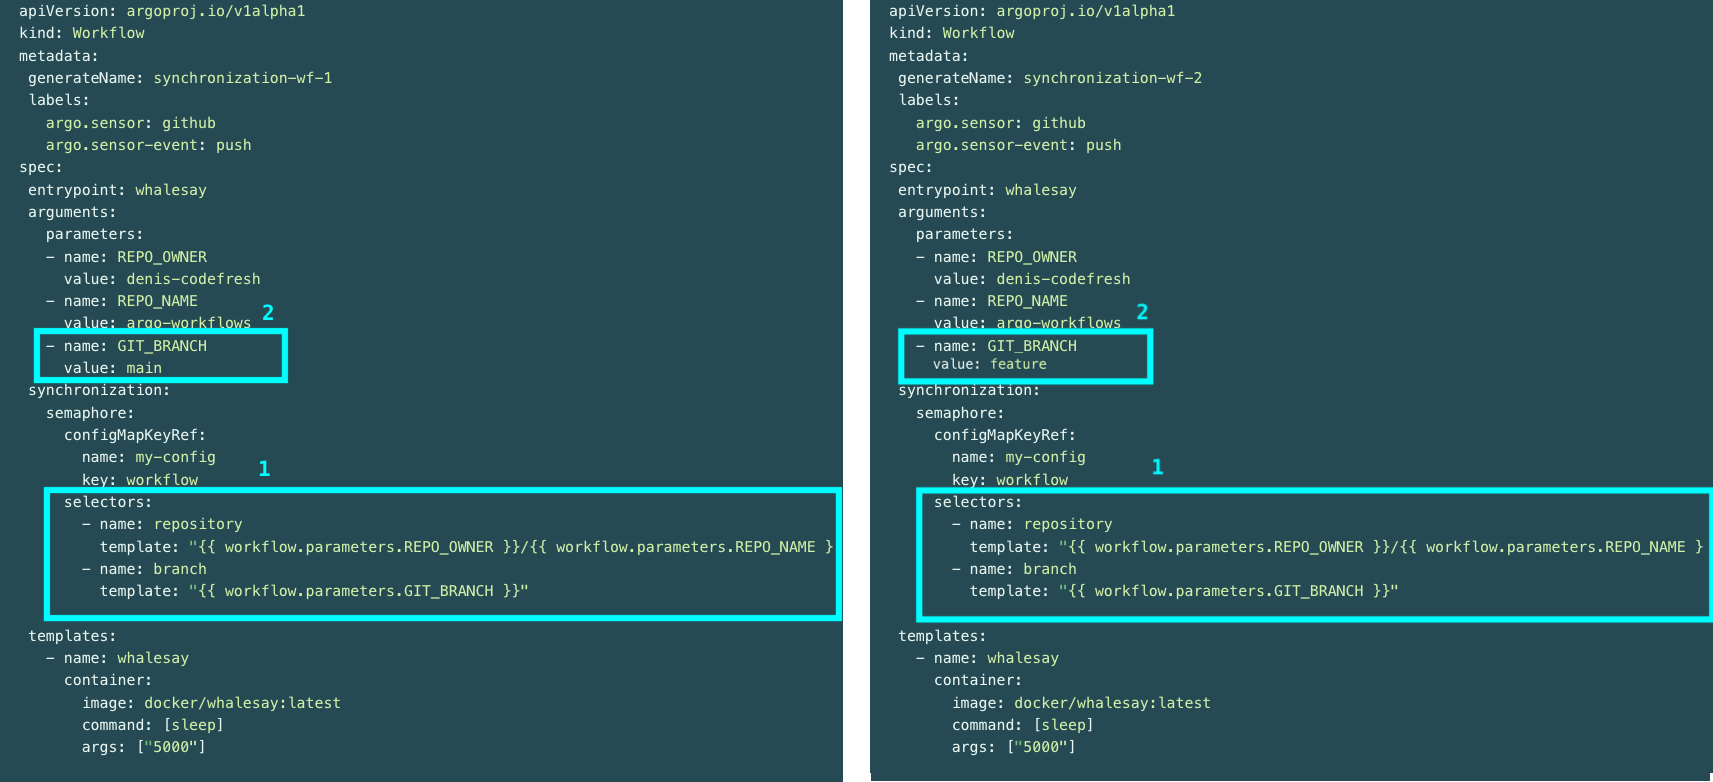
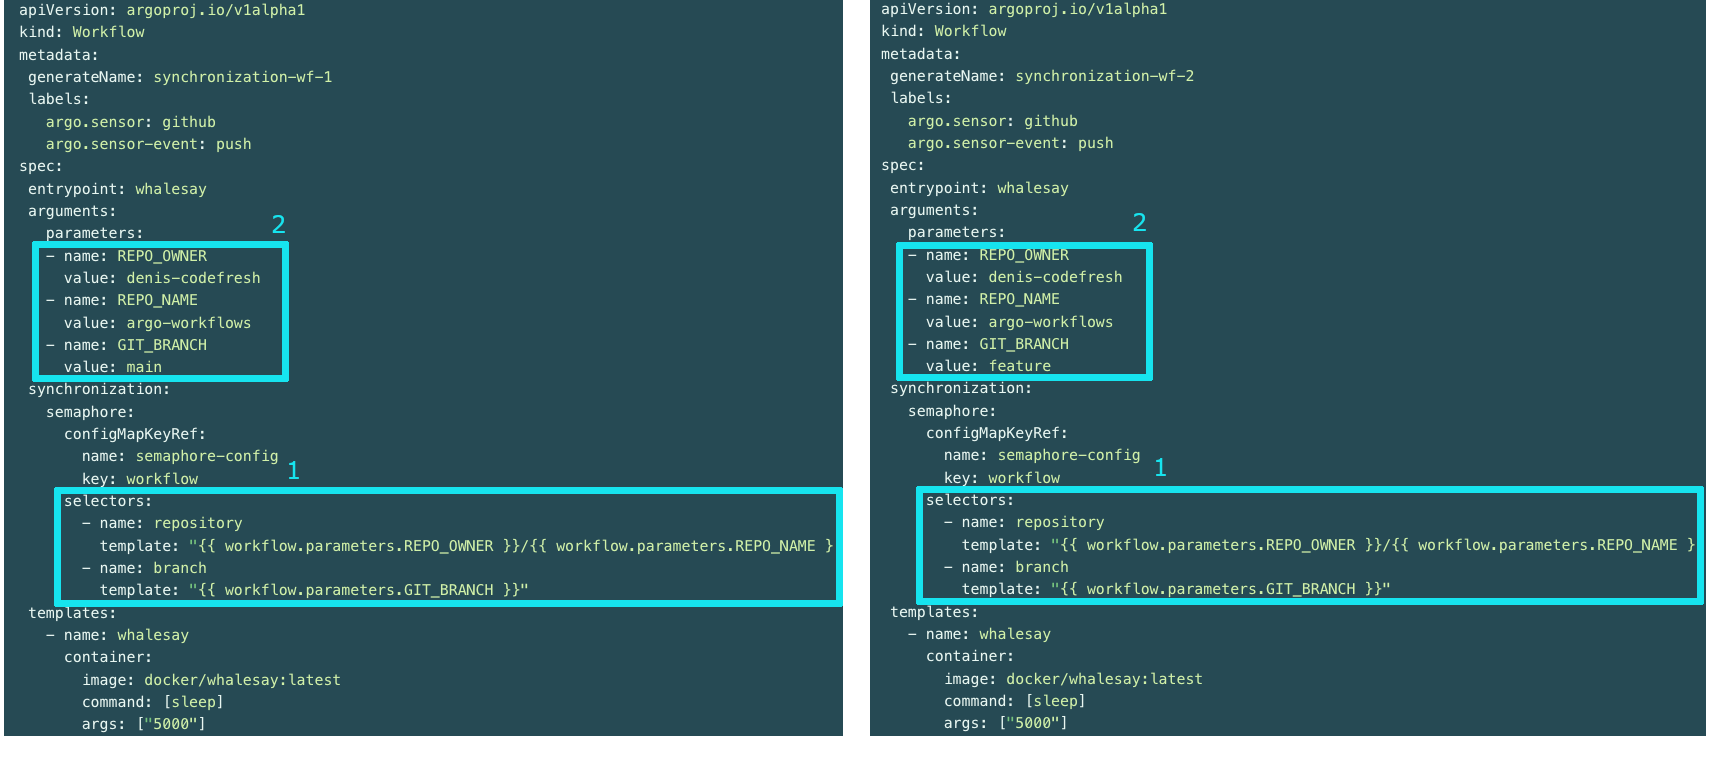
Updates after feedback
Implemented review comments from Ziv and Denis

Changed region(s): [[0.0, 0.0, 1.0, 1.0], [0.0928, 0.2148, 0.1238, 0.2455]]

diff --git a/_docs/pipelines/concurrency-limit.md b/_docs/pipelines/concurrency-limit.md
@@ -9,10 +9,11 @@ toc: true
 Argo Workflows has a synchronization mechanism to limit parallel execution of specific workflows or templates within workflows, as required.  
 The mechanism enforces this with either semaphore or mutex synchronization configurations.  
 
-CSDP supports an additional level of concurrency synchronization, with selectors, for both workflows and templates. 
-Selectors enable access to standard k8s objects such as `annotations`, `labels`, or `parameters` supporting dynamic values and templating. flexible concurrency configurations for parallel executions of workflows or templates within workflows. And equally important, selectors work with both semaphore and mutex synchronization configurations.  
+CSDP supports an additional level of concurrency synchronization, with _selectors_, for both workflows and templates.  
 
-The examples in this article are for semaphore synchronization configurations.  
+Selectors enable access to all workflow properties such as `annotations`, `labels`, or `parameters` using Go template formats. Selector-based concurrency configurations support parallel executions of workflows or templates within workflows. And equally important, selectors work with both semaphore and mutex synchronization configurations.  
+
+This article has examples for semaphore synchronization configurations.  
 
 Semaphore synchronization is configured in the `ConfigMap`, which is referenced from workflows or templates within workflows.  
 
@@ -21,7 +22,7 @@ Here's an example of the `ConfigMap` with the concurrency definition:
 apiVersion: v1
 kind: ConfigMap
 metadata:
- name: my-config
+ name: semaphore-config
 data:
  workflow: "1"
 ```
@@ -30,16 +31,16 @@ data:
 A concurrency synchronization selector is defined through a `name`-`template` pair in the Workflow Template:  
 
 * The `name` is any meaningful/logical name that describes the selector. For example, Git repo or branch.
-* The `template` is the parameter mapping for the name, that is resolved to the selector value when the pipeline is triggered. For example, `{{ workflow.parameters.REPO_OWNER }}/{{ workflow.parameters.REPO_NAME }}` or `{{ workflow.parameters.GIT_BRANCH }}`.  
+* The `template` is the parameter mapping for the name, that is resolved to the selector value when the pipeline is run. For example, `workflow.parameters.REPO_OWNER/workflow.parameters.REPO_NAME` or `workflow.parameters.GIT_BRANCH`.  
 
-You add selectors to the `synchromziation` section in the Workflow Template, under `selectors`, as in the sample YAML below.
+Selectors are added to the `synchronization` section in the Workflow Template, under `selectors`, as in the sample YAML below.
 
 {% highlight yaml %}
 {% raw %}
 apiVersion: argoproj.io/v1alpha1
 kind: Workflow
 metadata:
- generateName: synchronization-wf-1
+ generateName: synchronization-wf-2
  labels:
    argo.sensor: github
    argo.sensor-event: push
@@ -56,14 +57,13 @@ spec:
  synchronization:
    semaphore:
      configMapKeyRef:
-       name: my-config
-       key: workflow
+        name: semaphore-config
+        key: workflow
      selectors:
-       - name: repository
-         template: "{{ workflow.parameters.REPO_OWNER }}/{{ workflow.parameters.REPO_NAME }}"
-       - name: branch
-         template: "{{ workflow.parameters.GIT_BRANCH }}"
- 
+      - name: repository
+        template: "{{ workflow.parameters.REPO_OWNER }}/{{ workflow.parameters.REPO_NAME }}"
+      - name: branch
+        template: "{{ workflow.parameters.GIT_BRANCH }}"
  templates:
    - name: whalesay
      container:
@@ -73,22 +73,23 @@ spec:
 {% endraw %}
 {% endhighlight %}
 
+
 ### When and how does selector concurrency configuration work?
 
 Let's review different scenarios to illustrate when and how selector-based concurrency synchronization works:  
-* Default concurrency synchronization
-* Selector concurrency synchronization with identical values
-* Selector concurrency synchronization with value differentiation
+* Default concurrency synchronization without selectors
+* Selector concurrency synchronization resolving to the _same `template`_ values
+* Selector concurrency synchronization resolving to _different `template`_ values 
 
 We have two workflows, `synchronization-wf-1` and `synchronization-wf-2`. 
 
 #### Default concurrency synchronization
-Both workflows have the same default values for the arguments, and share the same semaphore configuration, and key with weight 1.   
+Both workflows have the same default values for the arguments, and share the same semaphore configuration and key with weight 1.   
 
 {% include image.html 
   lightbox="true" 
-  file="/images/pipeline/concurrency/default-concurrency-sync.png" 
-  url="/images/pipeline/concurrency/default-concurrency-sync.png"
+  file="/images/pipeline/concurrency/concurrency-default-config.png" 
+  url="/images/pipeline/concurrency/concurrency-default-config.png"
        alt="Workflows with default concurrency configuration"
        caption="Workflows with default concurrency configuration"
        max-width="30%"
@@ -96,10 +97,10 @@ Both workflows have the same default values for the arguments, and share the sam
 
 With the default concurrency configuration, only one workflow at a time can use the key. Meaning that while `synchronization-wf-1` is `Running`, `synchronization-wf-2` is in `Pending` status.
 
-#### Selector concurrency synchronization with identical values 
+#### Selector concurrency synchronization resolving to same template values
 
 Here are the same workflows, `synchronization-wf-1` and `synchronization-wf-2`, this time configured with _selector_ concurrency.  
-Both workflows share the same semaphore key with weight of 1.  
+Both workflows share the same semaphore key with a weight of 1.  
 Both workflows also _use the same set of selectors_. As you can see in the image below, the Git repo and the Git branch arguments have the same values in both.  
 
 {% include image.html 
@@ -111,8 +112,8 @@ Both workflows also _use the same set of selectors_. As you can see in the image
        max-width="30%"
        %}
 
-In this case, the selectors have no impact as both workflows use the same set of selectors.
-If you look at the workflow status, you can see the key:
+In this case, the selectors have no impact as the `selector templates` in both workflows resolve to the same values, resulting in the same semaphore key.
+If you look at the status of both workflows, you can see that they have the same semaphore key.
 
 ```yaml
 synchronization:
@@ -120,16 +121,17 @@ synchronization:
    holding:
    - holders:
      - synchronization-wf-6lf8b
-     semaphore: argo/ConfigMap/my-config/workflow?repository=denis-codefresh/argo-workflows&branch=main
+     semaphore: argo/ConfigMap/semaphore-config/workflow?repository=denis-codefresh/argo-workflows&branch=main
 ```
 
 
-#### Selector concurrency synchronization with value differentiation
+#### Selector concurrency synchronization resolving to different template values
 
 In the third scenario, we have the same workflows, `synchronization-wf-1` and `synchronization-wf-2`, also configured with the _selector_ concurrency.  
 They also share the same semaphore configuration and key with weight 1.  
 
-The difference is that in this scenario, the workflows use _different_ selectors. In `synchronization-wf-1`, the Git branch is set to `main`, and in `synchronization-wf-2`, it is set to `feature`. 
+The difference is that in this scenario, the `selector templates` in both workflows resolve to different values, resulting in different semaphore keys for each workflow.  
+In `synchronization-wf-1`, the Git branch is set to `main`, and in `synchronization-wf-2`, it is set to `feature`. 
 
 {% include image.html 
   lightbox="true" 
@@ -140,4 +142,24 @@ The difference is that in this scenario, the workflows use _different_ selectors
        max-width="30%"
        %}
 
-Now, because the workflows use _different selectors_, both workflows run in parallel.
+Now, because the workflows use different semaphore keys, both workflows run in parallel.  
+If you look at the status of both workflows, you can see that they have different semaphore keys.  
+
+```yaml
+synchronization:
+ semaphore:
+   holding:
+   - holders:
+     - synchronization-wf-6lf8b
+     semaphore: argo/ConfigMap/semaphore-config/workflow?repository=denis-codefresh/argo-workflows&branch=main
+```
+
+```yaml
+synchronization:
+ semaphore:
+   holding:
+   - holders:
+     - synchronization-wf-8lf9b
+     semaphore: argo/ConfigMap/semaphore-config/workflow?repository=denis-codefresh/argo-workflows&branch=feature
+```
+
